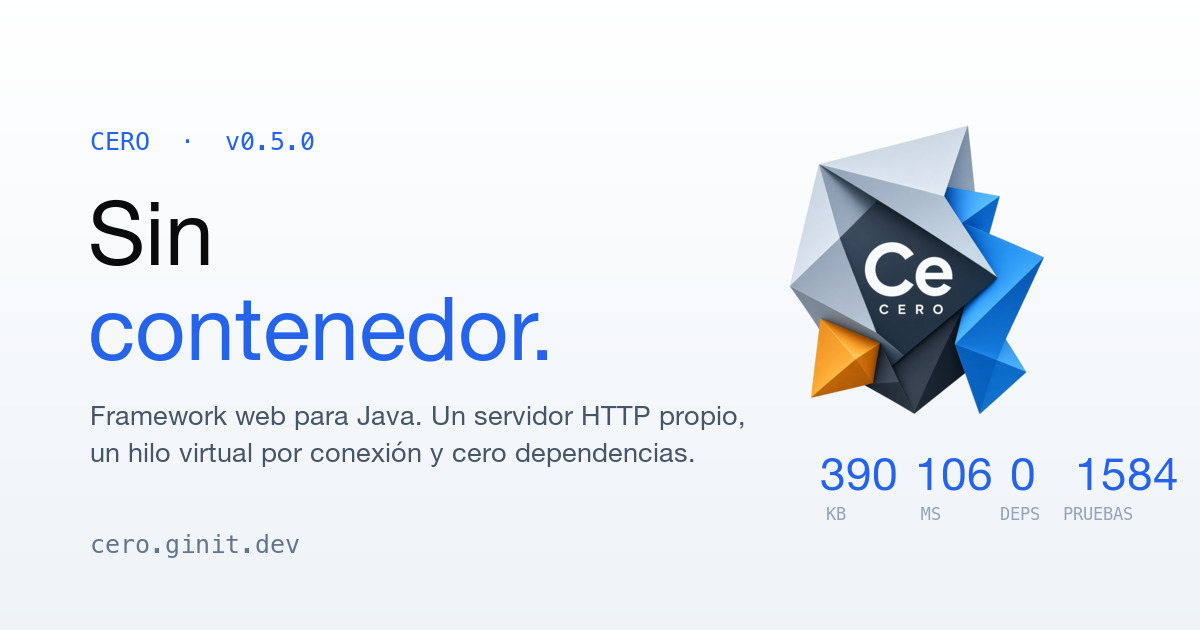
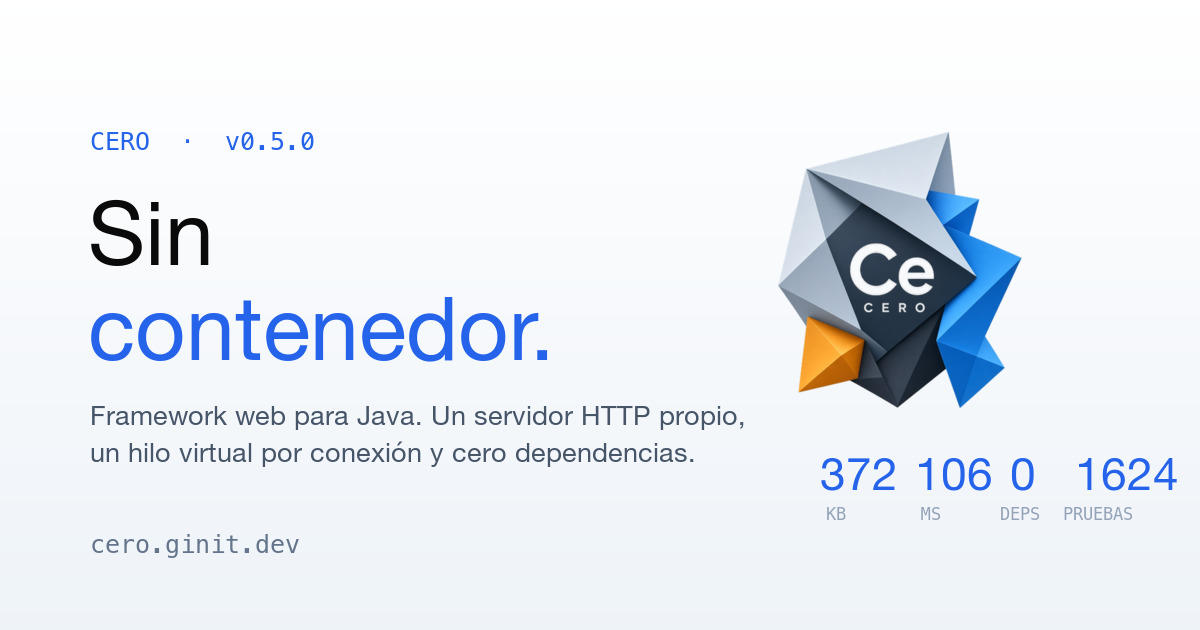
fix(marca): la tarjeta del enlace anunciaba cifras de hace dos versiones
Decía 390 KB y 1 584 pruebas. Son 372 y 1 624.

El propio guion que la dibuja avisa de esto en su cabecera: la anterior se quedó
diciendo «CORVO · v0.4.0» durante un renombrado entero y nadie lo vio, porque
esa imagen no se mira nunca desde dentro del sitio — solo desde Slack o
WhatsApp. Ha vuelto a pasar, así que los valores por defecto del guion pasan a
ser los buenos en vez de quedar a que alguien se acuerde de pasarlos.

El paquete que baja el instalador son 736 KB, no 452: medido armándolo.

Y el .gitignore gana la salvaguarda de credenciales que sí tenía el framework y
este no. Va antes de que haga falta: un secreto solo se filtra una vez.

Changed region(s): [[0.6475, 0.2111, 0.8942, 0.6635], [0.7092, 0.7238, 0.7708, 0.7841], [0.925, 0.7238, 0.9558, 0.7841]]

diff --git a/frontend/src/Terminal.jsx b/frontend/src/Terminal.jsx
@@ -15,7 +15,7 @@ import { useEffect, useRef, useState } from 'react'
 
 const GUION = [
   { orden: 'curl -fsSL https://cero.ginit.dev/instalar | sh', salida: [
-      'descargando cero-0.5.0.tar.gz … 452 KB',
+      'descargando cero-0.5.0.tar.gz … 736 KB',
       'comprobando huella sha256 … correcta',
       'compilando … 1 624 pruebas en verde',
       'orden cero lista en ~/.local/bin',
